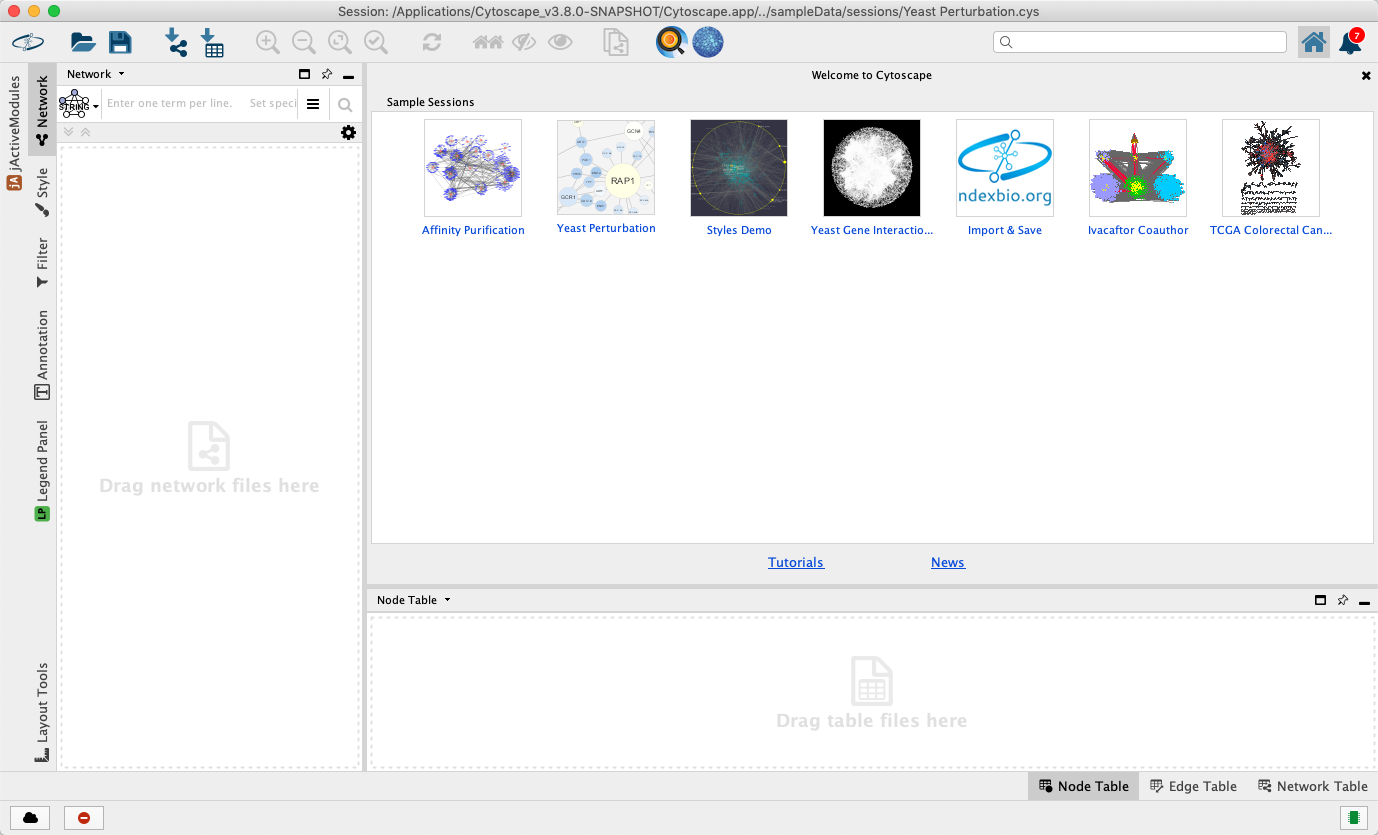
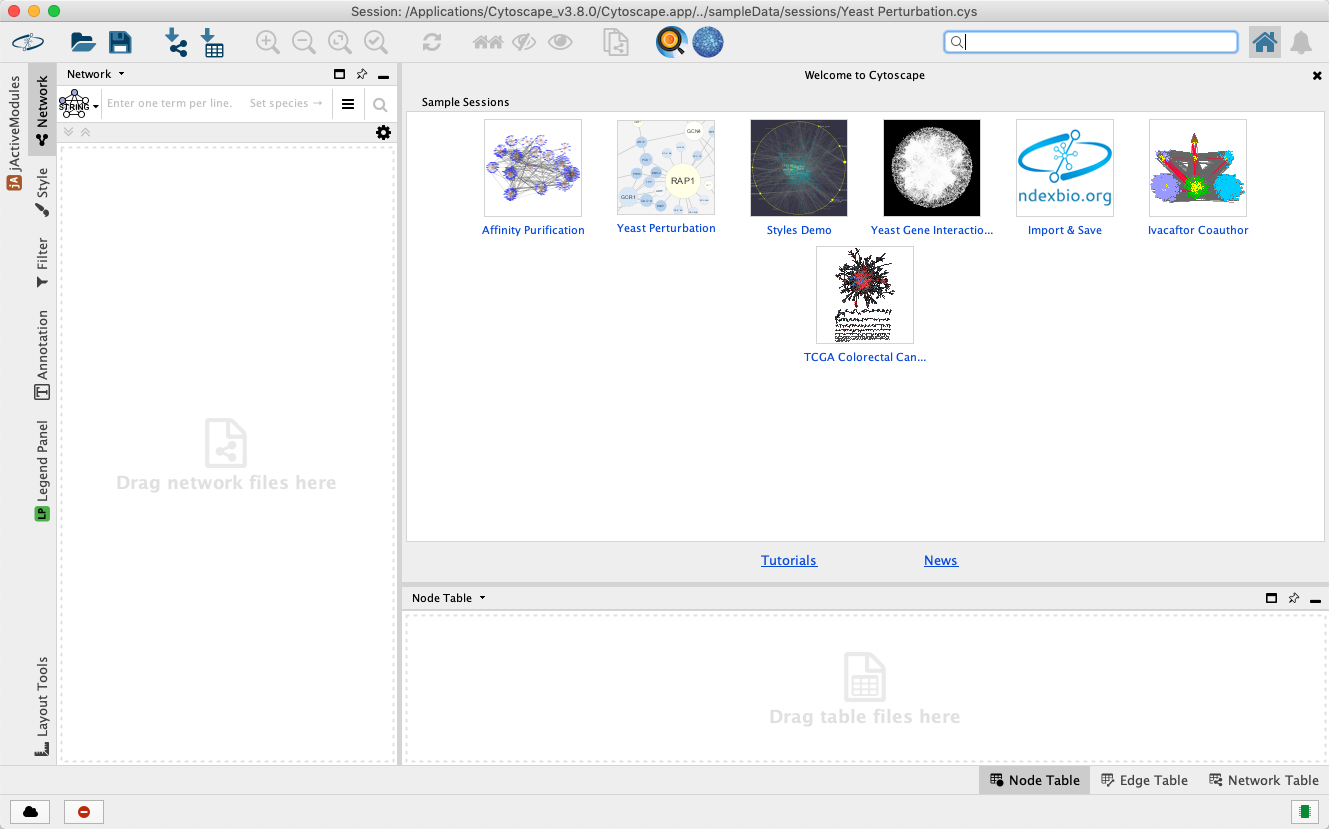
updated screenshots and text for 3.8

diff --git a/docs/Quick_Tour_of_Cytoscape.md b/docs/Quick_Tour_of_Cytoscape.md
@@ -30,7 +30,7 @@ Policy](Cytoscape_Privacy_Policy.html#cytoscape-privacy-policy)**.
 When a network is loaded, Cytoscape will look similar to the image
 below:
 
-![NetworkLoaded37.png](_static/images/Quick_Tour/NetworkLoaded37.png)
+![NetworkLoaded38.png](_static/images/Quick_Tour/NetworkLoaded38.png)
 
 Most functionalities are self-explanatory, but we'll go through a
 concise explanation for clarity. The main window here has several
@@ -45,7 +45,7 @@ components:
     appear as a tooltip. Right-clicking on the tool bar allows the
     contents to be customized.
 
--   The Network Panel (Network tab of the Control Panel, top left). 
+-   The Network Panel (Network tab of the Control Panel). 
     At the top of the Network Panel is a Search bar, with direct access 
     to multiple external resources. The network panel also
     contains an optional network overview pane (shown at the
@@ -74,7 +74,7 @@ have two Cytoscape windows, the main window, and a new window labeled
 Table Panel, similar to the one shown below. A popup will be displayed
 when you put the mouse pointer on a cell.
 
-![TablePanel37.png](_static/images/Quick_Tour/TablePanel37.png)
+![TablePanel38.png](_static/images/Quick_Tour/TablePanel38.png)
 
 Note that Table Panel now has a Dock Window control. If you click this
 control, the window will dock onto the main window. For more information
